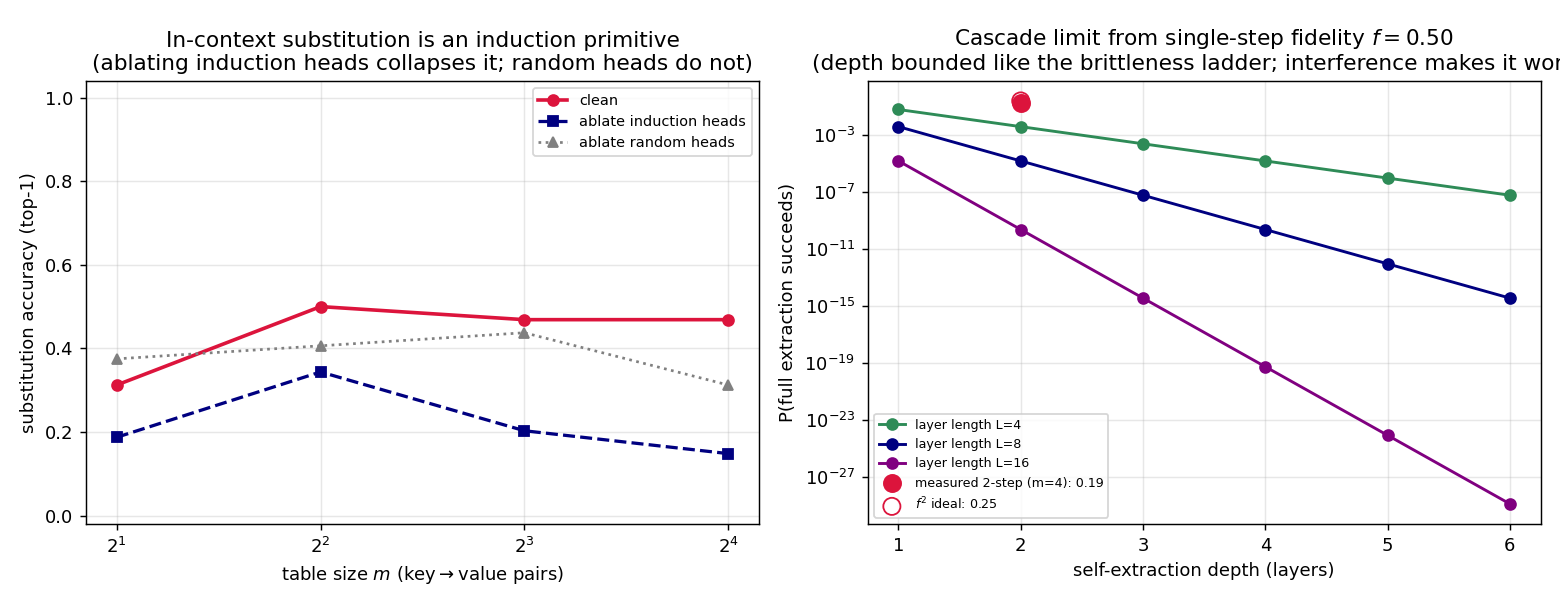
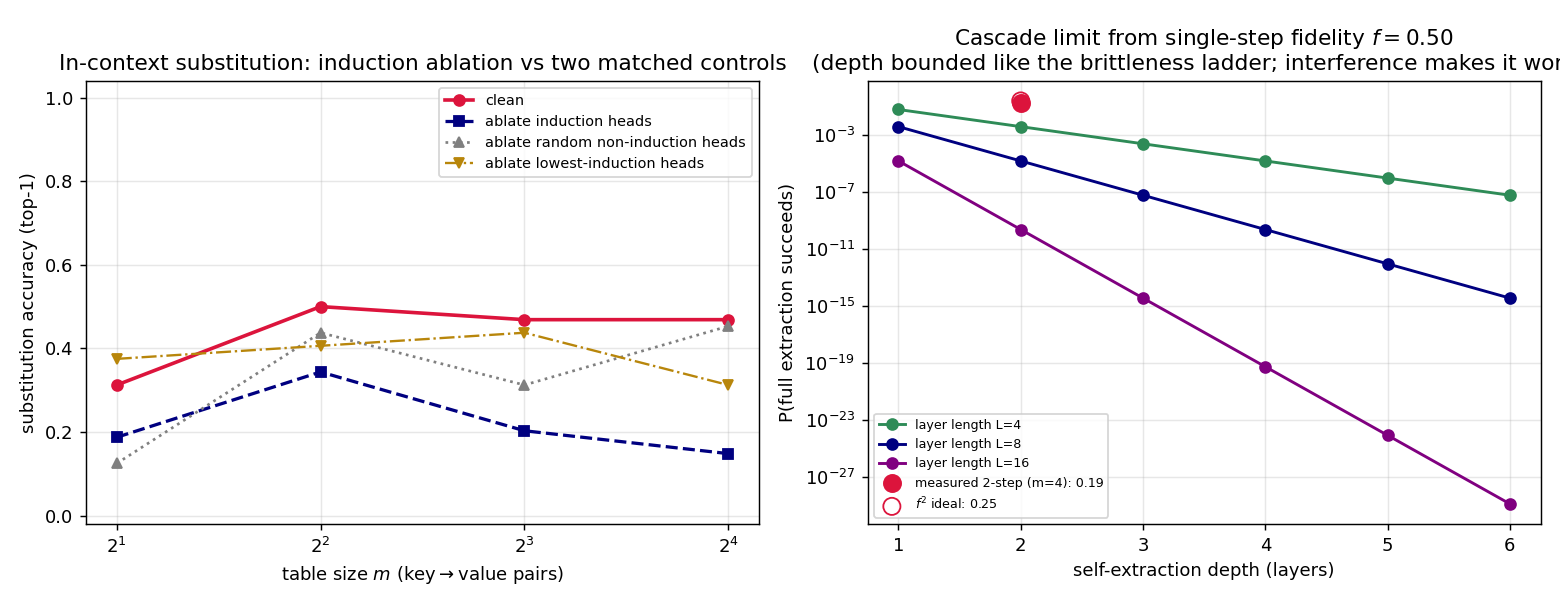
E8-lite rerun: substitution is induction-carried but weaker under a true random control
Reran experiments.e8_substitution --snapshot trackA (CPU, HF_HUB_OFFLINE=1 only
change from defaults; GPT-2-small, 8 tables x m queries, seed 7, 92 s). The old
run's "ablate random" column was the 8 lowest-induction heads; this run ablates
the induction set against a genuine seeded random non-induction control AND the
lowest-induction set under their true names.

Top-1 substitution accuracy, drop vs clean:
  m=8:  clean 0.469 -> induction 0.203 (-57%), true-random 0.312 (-33%), low 0.438 (-7%)
  m=16: clean 0.469 -> induction 0.148 (-68%), true-random 0.453 (-3%),  low 0.312 (-33%)

Verdict: the induction-ablation drop is still the largest at the reliable table
sizes (m>=8), so in-context substitution IS induction-carried -- but weaker than
first reported. A true random ablation removes ~33% at m=8 (the mislabeled "-6%
random" column was the harmless lowest-induction set), so the induction-specific
effect is the gap between the induction and true-random drops, not the near-total
contrast originally shown. m=2-4 rows are noisy (16-32 lookups) and the ordering
only stabilizes at m>=8. Cascade limit unchanged: step-1 0.969 but 2-step 0.188 <
f^2=0.250.

- results_log.md: new "E8-lite rerun" entry with the table + verdict; old entry's
  status note changed from "pending rerun" to "SUPERSEDED".
- README.md: E8 status row updated to the rerun's finding.
- data/trackA/e8_substitution.json (+ .png): now the true-random-control rerun
[…]

diff --git a/results_log.md b/results_log.md
@@ -437,12 +437,14 @@ not of stochastic decoding. (A full temperature sweep, 0 → 1.0+, remains futur
 
 ## E8-lite — in-context substitution as an induction primitive, and the cascade limit (2026-06-26)
 
-> **Status (2026-11-03): control mislabeled; superseded pending rerun.** The "ablate random"
-> column below was in fact the 8 *lowest*-induction-score heads (see the old
-> `e8_substitution.py:103`), a control biased toward unimportant heads. The script now runs a
-> genuinely random matched control (seeded, excluding the induction set, as in E2) *and* the
-> lowest-induction set, under their true names (`review_remediation_plan.md` §0.1). The
-> "induction-carried" conclusion is held open until the rerun.
+> **Status (2026-11-03): SUPERSEDED by the rerun below** ("E8-lite rerun — true random
+> control"). The "ablate random" column below was in fact the 8 *lowest*-induction-score heads,
+> a control biased toward unimportant heads. The rerun adds a genuinely random matched control
+> (seeded, excluding the induction set, as in E2) alongside the lowest-induction set. Outcome:
+> the induction-carried claim **survives** at the reliable table sizes (m=8: −57% vs a true
+> random −33%; m=16: −68% vs −3%), but is **weaker** than this entry implies — a real random
+> ablation removes ~33% at m=8, not the −6% the mislabeled column showed, so the "−6% random"
+> numbers below overstate the induction-specific effect. Read the rerun entry instead.
 
 Mechanistic core of the "self-extracting payload" idea (random tokens that unfold into a
 payload via per-layer substitution), on GPT-2-small with benign OOD markers — the "decoded"
@@ -939,3 +941,53 @@ Caveats: GPT-2-small, CPU, ~65-token docs, p=3, 2 payloads/doc, seed 7; 71 s. Bo
 evaluated against the *same* benign-repetitive controls, so the FPR gap is not a sampling
 artifact of different thresholds. Raw: `data/trackA/e7_detector.json` (+ `.png`); the superseded
 June 3-negative run is preserved as `data/trackA/e7_detector_2026-06-26_3neg.json`.
+
+## E8-lite rerun — true random control (2026-11-03, local CPU)
+
+Supersedes the E8-lite run above, whose "ablate random" column was in fact the 8 *lowest*-
+induction heads (a control biased toward unimportant heads). This run ablates the induction set
+against **both** a genuinely random matched control (8 heads drawn, seeded, from the
+non-induction heads, as in E2) **and** the lowest-induction set, under their true names. Command
+(only `HF_HUB_OFFLINE=1` added to defaults):
+
+```
+HF_HUB_OFFLINE=1 python -m experiments.e8_substitution --snapshot trackA
+# defaults: ms=[2,4,8,16], n-tables=8, k-heads=8, seed=7
+```
+
+Induction heads `[(5,5),(7,10),(6,9),(5,1),(7,2),(9,6),(10,1),(9,9)]`; random control
+`[(11,6),(9,4),(1,11),(2,6),(3,6),(8,1),(7,6),(11,9)]`; lowest-induction control
+`[(4,11),(3,3),(3,7),(3,2),(3,8),(2,2),(4,0),(3,6)]`. Substitution top-1 accuracy (8 tables × m
+queries/cell; Δ vs clean in parentheses):
+
+| m | clean | ablate induction | ablate TRUE random | ablate lowest-induction |
+|---|---|---|---|---|
+| 2 | 0.312 | 0.188 (−40%) | 0.125 (−60%) | 0.375 (+20%) |
+| 4 | 0.500 | 0.344 (−31%) | 0.438 (−12%) | 0.406 (−19%) |
+| 8 | 0.469 | **0.203 (−57%)** | 0.312 (−33%) | 0.438 (−7%) |
+| 16 | 0.469 | **0.148 (−68%)** | 0.453 (−3%) | 0.312 (−33%) |
+
+**Is the induction-ablation drop still much larger than the random-ablation drop? Yes at the
+reliable table sizes, but the claim is weaker than the old mislabeled comparison implied.** At
+the two largest, least-noisy cells the induction ablation collapses substitution far more than a
+*true* random ablation: m=8, −57% vs −33%; m=16, −68% vs −3% (random is essentially unchanged
+from clean at m=16). The lowest-induction control barely moves (−7% at m=8), confirming the
+original intuition that unimportant heads are harmless — the old run's only error was calling
+*that* set "random". But the honest correction is that a genuine random non-induction ablation is
+**not** harmless: it removes ~33% of accuracy at m=8 (the old mislabeled column showed only −6%),
+so the induction-specific effect is the *gap* between the induction drop and a real random drop,
+not the near-total contrast the first write-up suggested. The m=2–4 rows are noisy (16–32 lookups)
+and even invert at m=2; the induction>random ordering only stabilizes at m≥8. **In-context
+substitution is induction-carried, but the effect size is moderate and the earlier "−6% random"
+baseline overstated it.**
+
+The cascade finding is unchanged: single-step fidelity with two tables present is high
+(step-1 acc **0.969**), yet the direct 2-step cascade succeeds only **0.188**, *below* the
+optimistic `f²=0.250` (f=0.500) — self-extraction depth is bounded worse than the `f^(L·depth)`
+ladder predicts, because the intermediate value is both a value and a key and splits the
+induction lookup.
+
+Caveats: GPT-2-small, CPU, 8 tables × m queries/cell (small-m rows noisy), top-1 metric, greedy
+2-step, seed 7; 92 s. No bootstrap CIs — point estimates only, so read the −3%/−33% random-column
+swings between m=8 and m=16 as sampling noise, not structure. Raw: `data/trackA/e8_substitution.json`
+(+ `.png`); the superseded June run is preserved as `data/trackA/e8_substitution_2026-06-26.json`.

diff --git a/README.md b/README.md
@@ -34,7 +34,7 @@ the detail lives:
 | C5 RAG hijack | Holds on a base-model continuation (entry × lock-in); **bounded** at scale: a task query on an instruct model defuses raw-repetition hijack. | log: E5-lite, E5-scale |
 | C6 worm / firebreak | Re-analyzed: no cell has a per-hop reproduction ratio above one; "endemic" 7B chains are locked repetition loops at a load set by T/p. Firebreak: significant in the reported 1-hop run (p=0.004), undetectable in the unreported 3-hop run (p=0.24). Higher-n rerun queued. | log: E6, E6-scale, *Analyses* §B–C |
 | E7 detector | **Reran (32 negatives + model-free n-gram baseline + FPR):** the induction detector does **not** beat a model-free n-gram-repeat count — both separate poisoned from clean perfectly (AUC 1.0 at every k≥2), and the induction score is marginally *worse* on benign-repetitive text (FPR 1.00 vs 0.88). It is an n-gram repeat detector; induction explains *why* repetition is dangerous, not a better alarm. | log: E7 rerun (2026-11-03) |
-| E8 self-extraction | Instruct models decode and execute nested benign substitution. E8-lite's "random" control was the lowest-induction heads; **rerun pending**. | log: E8-lite (status note), E8 capstone |
+| E8 self-extraction | Instruct models decode and execute nested benign substitution. **E8-lite reran with a true random control:** substitution is still induction-carried at reliable table sizes (m=8 ablation drop −57% vs a true-random −33%; m=16 −68% vs −3%), but weaker than first reported — a genuine random ablation removes ~33% (the old "random" was the lowest-induction heads, −6%). Cascade limit unchanged (2-step 0.19 < f²=0.25). | log: E8-lite rerun (2026-11-03), E8 capstone |
 
 Sample sizes are small throughout (3–8 payloads, facts or trials per cell, single seeds); read
 every number with its interval where one is given, and as a point estimate where none is.

diff --git a/data/README.md b/data/README.md
@@ -44,6 +44,11 @@ filename, so `trackA/e7_detector.json` (+ `.png`) now holds the **32-negative re
 recovered June run. The recovered June 3-negative run is preserved beside it as
 `trackA/e7_detector_2026-06-26_3neg.json` (+ `.png`). See `results_log.md`, "E7 rerun".
 
+**Note on `trackA/e8_substitution.json`:** likewise the E8-lite rerun (2026-11-03, Task 3) writes
+to this filename, so `trackA/e8_substitution.json` (+ `.png`) now holds the **true-random-control
+rerun**. The recovered June run is preserved as `trackA/e8_substitution_2026-06-26.json` (+ `.png`).
+See `results_log.md`, "E8-lite rerun".
+
 ## Still missing (raw data lost unless recovered from the Azure disk)
 Track A: none — all recovered 2026-11-03 (see above).
 Track B: `e1_4` only (searched the dev Mac 2026-11-03, not found; its numbers remain in
